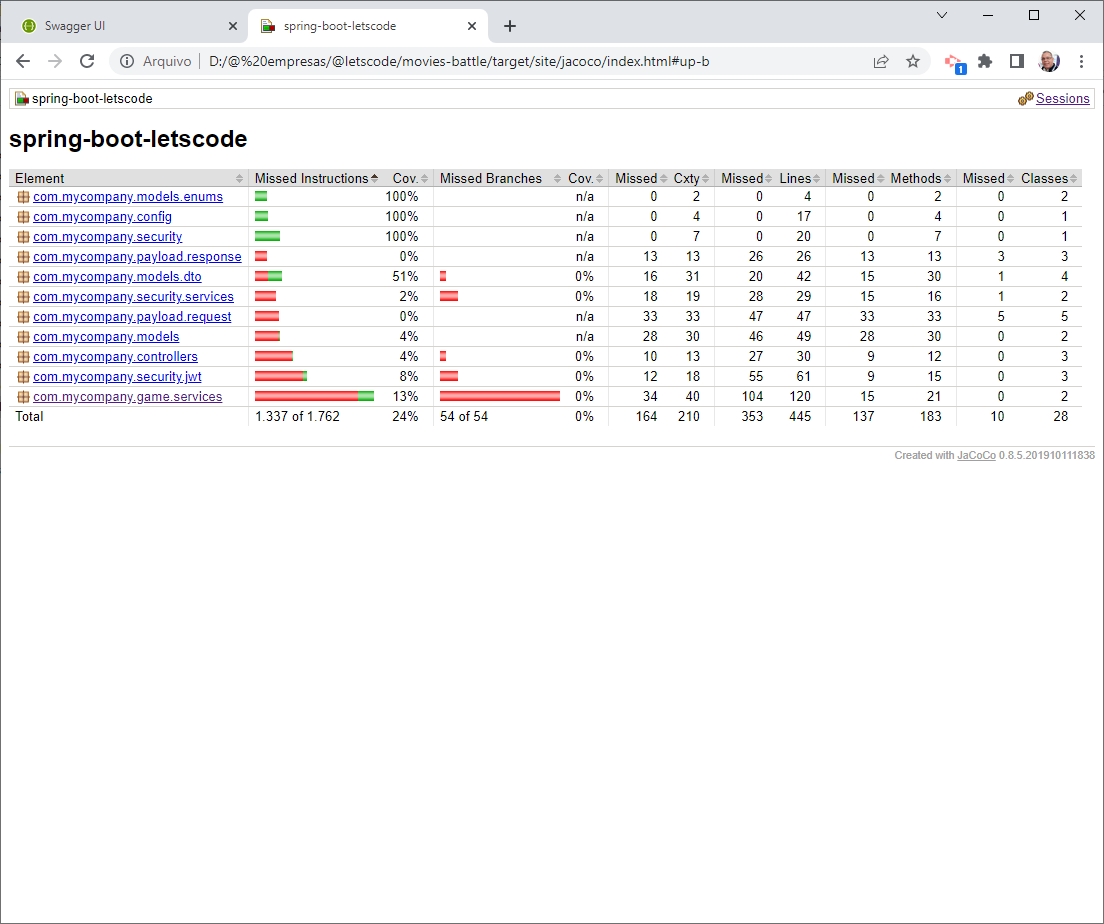
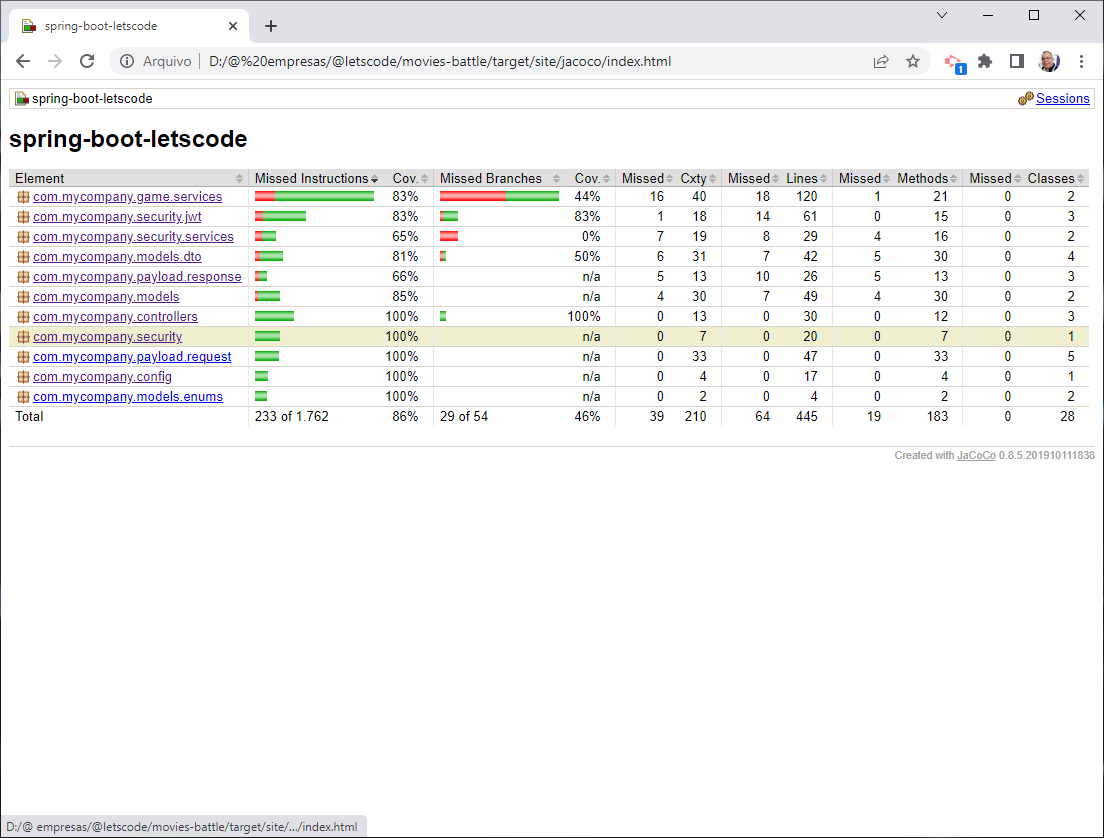
:construction:

Changed region(s): [[0.0, 0.0, 1.0, 0.4964], [0.0, 0.9618, 1.0, 1.0], [0.8007, 0.5274, 1.0, 0.5585]]

diff --git a/README.md b/README.md
@@ -64,7 +64,9 @@ Abra no browser:
 http://localhost:3000/swagger-ui.html
 ```
 
-## Teste de Cobertura
+![](assets/01.PNG)
+
+## Coverage
 
 Para executar teste de cobertura:
 
@@ -77,6 +79,10 @@ Abra no browser
 ```
 \target\site\jacoco\index.html
 ```
+
+![](assets/04.PNG)
+
+
 
 ## Roteiro de teste endpoints da API
 
@@ -98,8 +104,6 @@ Com a aplicação em execução, Utilize a interface do Swagger (http://localhos
 [POST] /api/auth/signout (desconectar)
 
 ```
-
-
 
 ## Aviso
 
